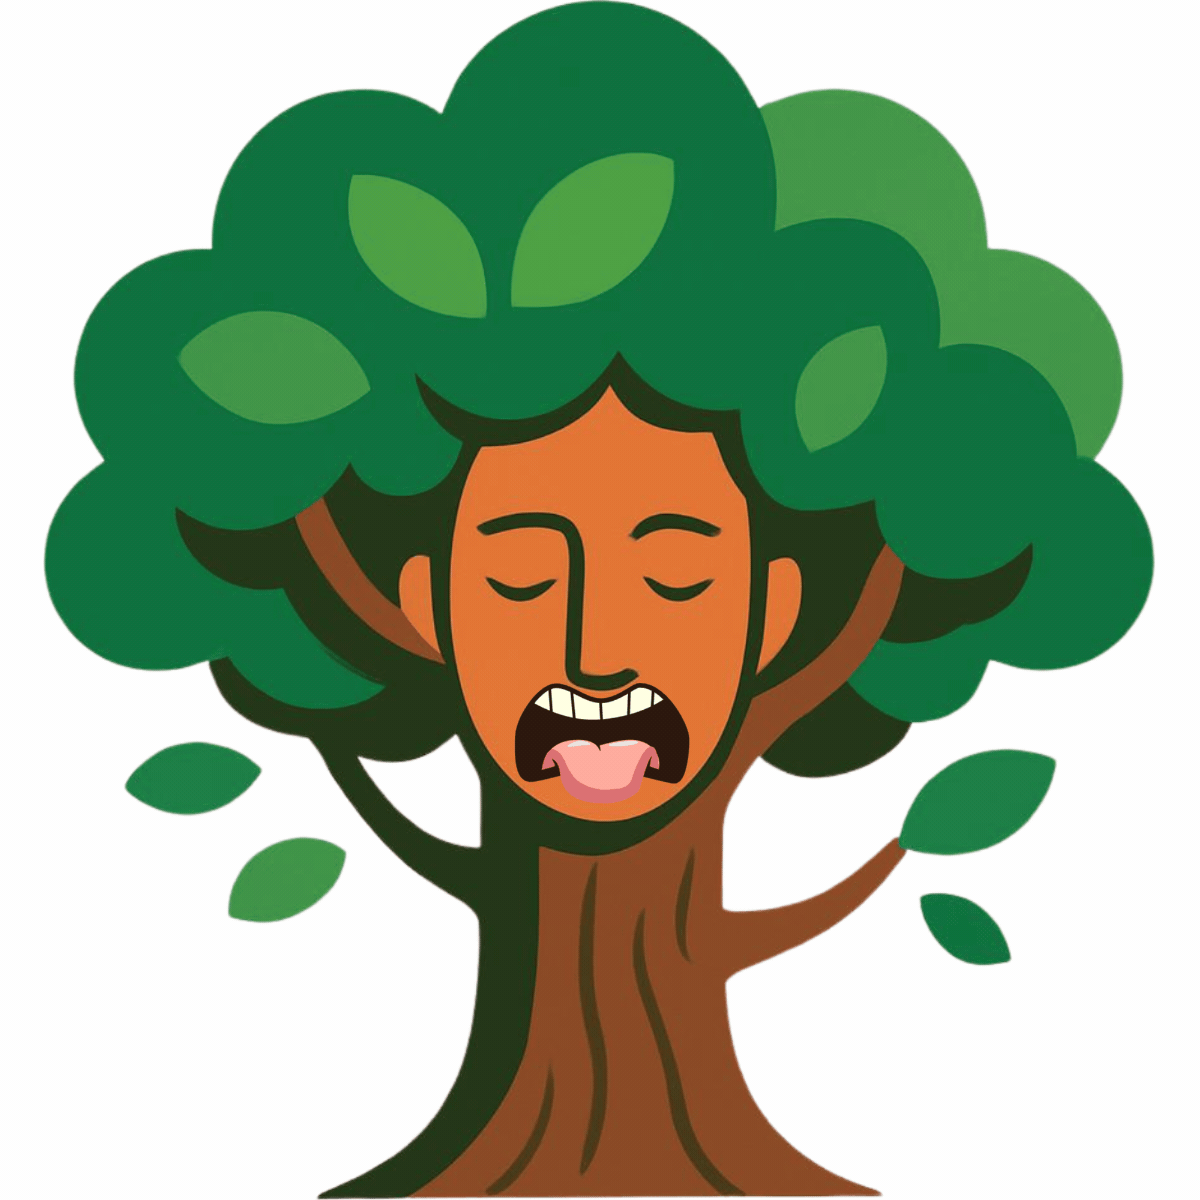
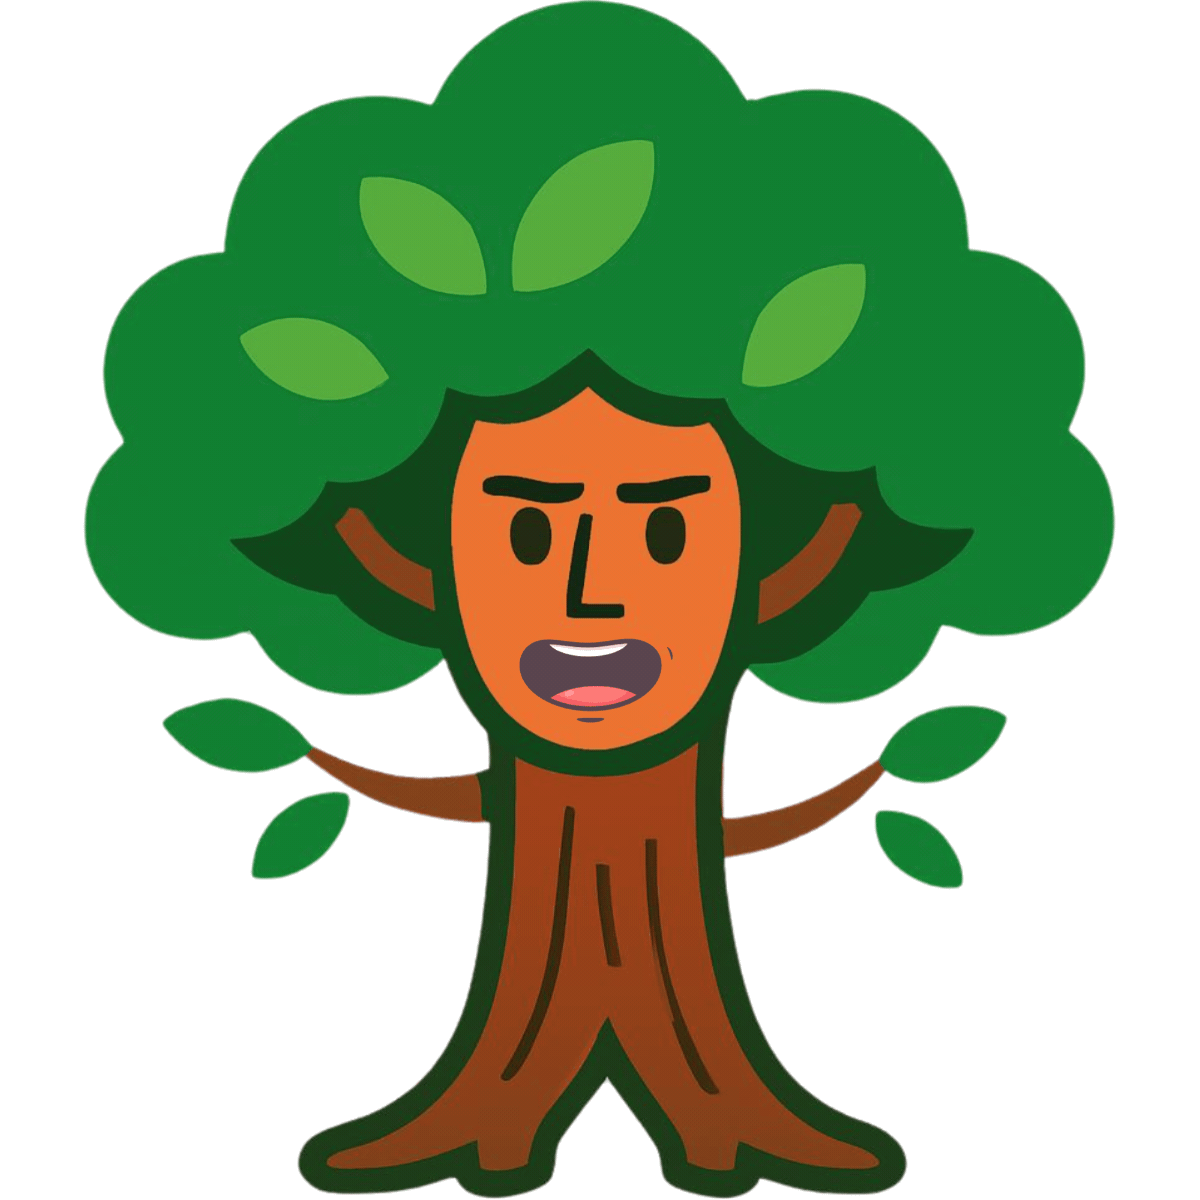
Update Treeko with new character art, double size on desktop, no white bg
- New GIF with full-body Treeko (arms out, open eyes)
- White background removed from idle PNG via alpha transparency
- GIF white background hidden with mix-blend-multiply
- Double size on desktop (w-48 h-56) vs mobile (w-24 h-28)

diff --git a/src/components/TreekoChat.tsx b/src/components/TreekoChat.tsx
@@ -152,8 +152,8 @@ export default function TreekoChat() {
           </div>
         )}
 
-        {/* Treeko image — raw character, bottom-aligned */}
-        <div className={`w-24 h-28 relative transition-transform ${
+        {/* Treeko image — raw character, double size on desktop, no background */}
+        <div className={`w-24 h-28 md:w-48 md:h-56 relative transition-transform ${
           state === 'idle' ? 'animate-treeko-idle group-hover:scale-105' : ''
         } ${isTyping ? 'animate-treeko-talk' : ''}`}>
           {isTyping ? (
@@ -161,14 +161,14 @@ export default function TreekoChat() {
             <img
               src="/images/treeko-talking.gif"
               alt="Treeko talking"
-              className="w-full h-full object-contain object-bottom drop-shadow-lg"
+              className="w-full h-full object-contain object-bottom drop-shadow-lg mix-blend-multiply"
             />
           ) : (
             <Image
               src="/images/treeko-idle.png"
               alt="Treeko"
-              width={96}
-              height={112}
+              width={192}
+              height={224}
               className="w-full h-full object-contain object-bottom drop-shadow-lg"
               priority
             />
